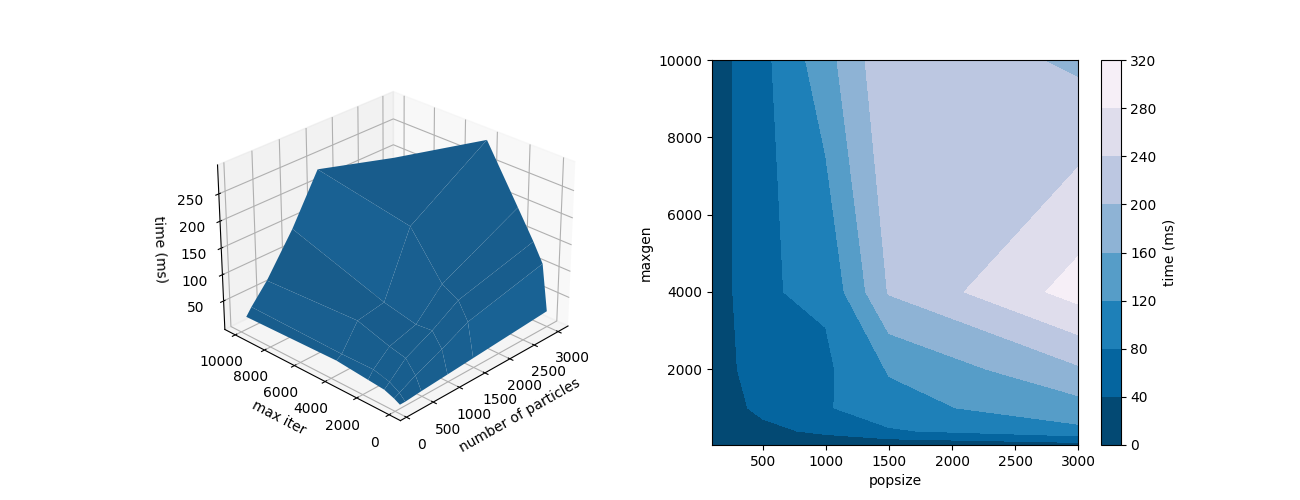
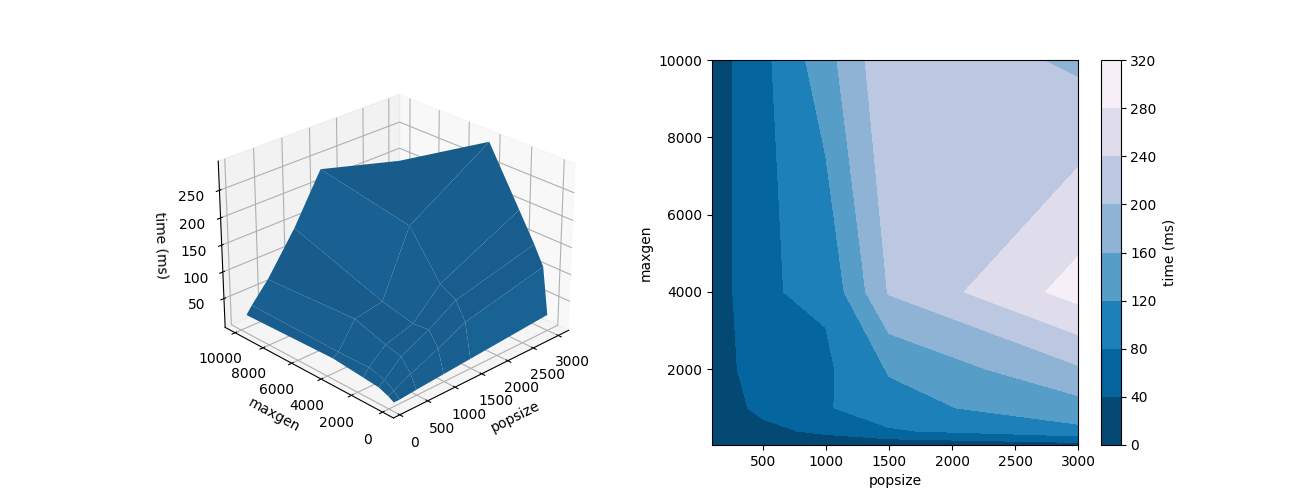
add plots fix

diff --git a/plot_ga_pz_mg.py b/plot_ga_pz_mg.py
@@ -35,8 +35,8 @@ def plot1(path,N):
     gs = ax2.get_gridspec()
     ax2b = fig.add_subplot(gs[0], projection='3d')
     ax2b.plot_surface(theta0_grid, theta1_grid, time_grid)
-    ax2b.set_xlabel('number of particles')
-    ax2b.set_ylabel('max iter')
+    ax2b.set_xlabel('popsize')
+    ax2b.set_ylabel('maxgen')
     ax2b.set_zlabel('time (ms)')
     ax2.spines['top'].set_visible(False)
     ax2.spines['right'].set_visible(False)
